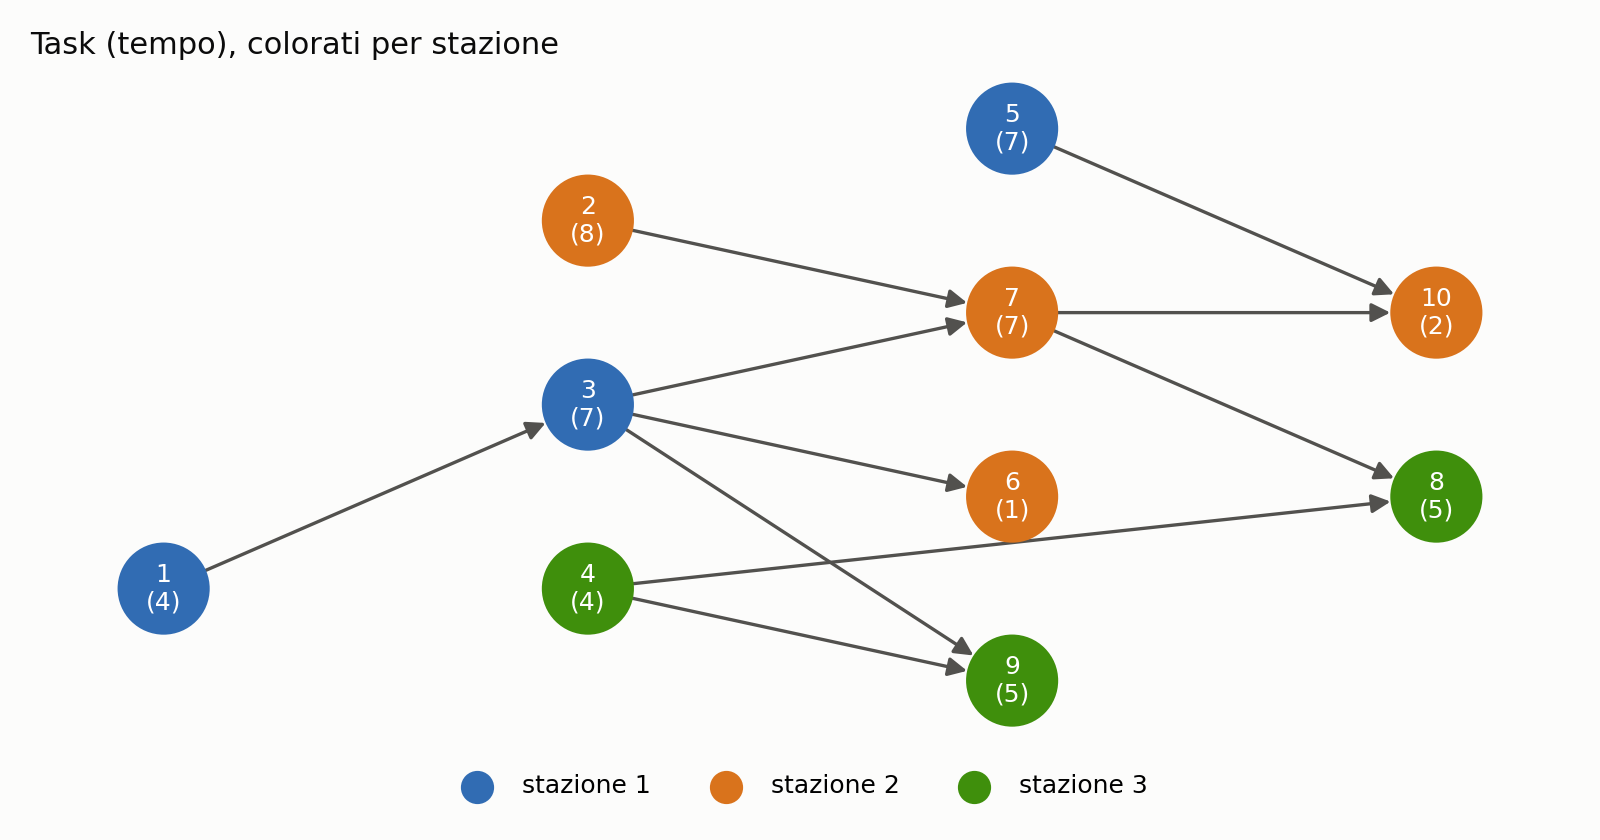
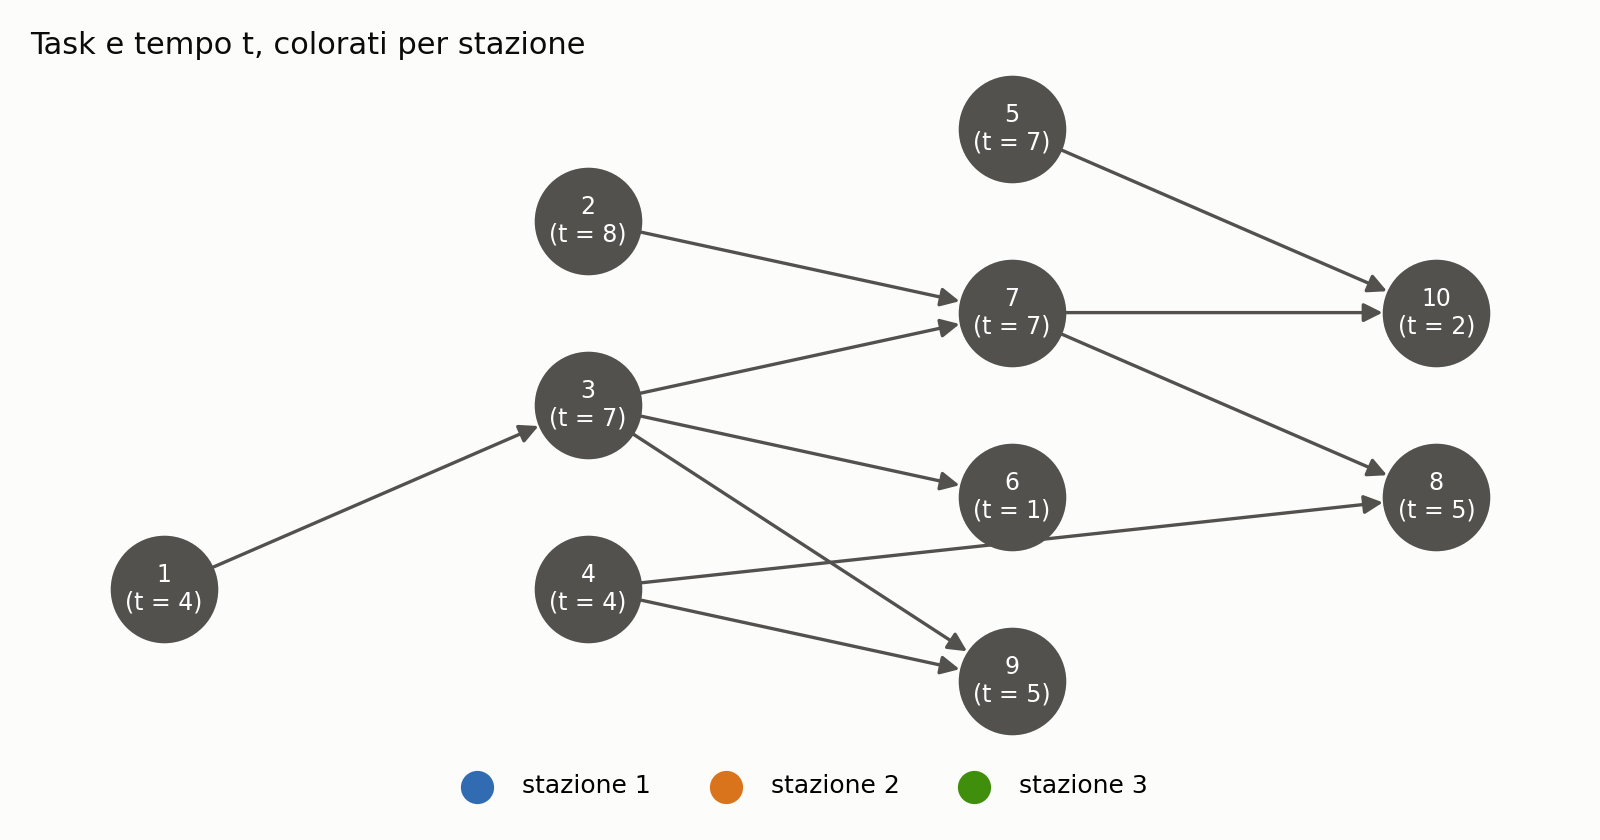
Migliorie Esempio per slide

diff --git a/scripts/esempio.py b/scripts/esempio.py
@@ -23,7 +23,7 @@ import networkx as nx
 
 from scripts.make_figures import GRID, INK, INK_MUTED, SURFACE
 from scripts.run_experiments import METHODS
-from src.bounds import lower_bound, simple_lower_bound, window_lower_bound
+from src.bounds import lower_bound, simple_lower_bound, window_lower_bound, StationBounds
 from src.graph import PrecedenceGraph
 from src.instance import ALBInstance
 
@@ -50,16 +50,16 @@ def draw_graph(inst: ALBInstance, stations: tuple[int, ...], path: Path) -> None
     dg.add_nodes_from(range(inst.n_tasks))
     fig, ax = plt.subplots(figsize=(8, 4.2))
     nx.draw_networkx_edges(dg, pos, ax=ax, edge_color=INK_MUTED, arrowsize=14,
-                           node_size=1100, width=1.2)
-    nx.draw_networkx_nodes(dg, pos, ax=ax, node_size=1100, linewidths=0,
+                           node_size=1500, width=1.2)
+    nx.draw_networkx_nodes(dg, pos, ax=ax, node_size=1500, linewidths=0,
                            node_color=[STATION_COLORS[stations[j] - 1] for j in dg.nodes])
-    nx.draw_networkx_labels(dg, pos, ax=ax, font_color="white", font_size=9,
-                            labels={j: f"{j + 1}\n({inst.task_times[j]})" for j in dg.nodes})
+    nx.draw_networkx_labels(dg, pos, ax=ax, font_color="white", font_size=8.5,
+                            labels={j: f"{j + 1}\n(t = {inst.task_times[j]})" for j in dg.nodes})
     for s in range(1, inst.m_stations + 1):
         ax.scatter([], [], s=120, color=STATION_COLORS[s - 1], label=f"stazione {s}")
     ax.legend(loc="upper center", bbox_to_anchor=(0.5, -0.02), ncol=inst.m_stations,
               frameon=False, fontsize=9)
-    ax.set_title("Task (tempo), colorati per stazione", fontsize=11, color=INK, loc="left")
+    ax.set_title("Task e tempo t, colorati per stazione", fontsize=11, color=INK, loc="left")
     ax.axis("off")
     fig.patch.set_facecolor(SURFACE)
     fig.tight_layout()
@@ -100,6 +100,8 @@ def draw_loads(inst: ALBInstance, stations: tuple[int, ...], lb: int, path: Path
     print(f"  {path}")
 
 
+
+
 def main() -> None:
     parser = argparse.ArgumentParser(description=__doc__.splitlines()[0])
     parser.add_argument("--out", type=Path, default=Path("results/esempio"))
@@ -124,6 +126,7 @@ def main() -> None:
     best = results["hoffmann"]
     draw_graph(inst, best.solution.stations, args.out / "esempio_grafo.png")
     draw_loads(inst, best.solution.stations, best.lower_bound, args.out / "esempio_carichi.png")
+
 
 
 if __name__ == "__main__":
